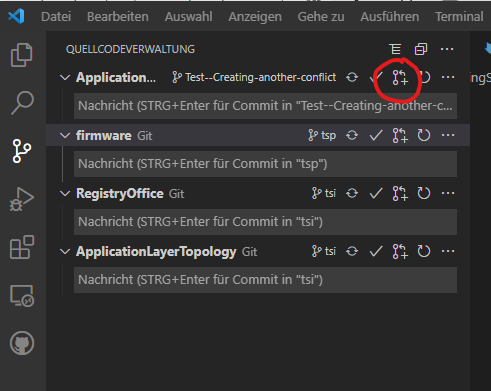
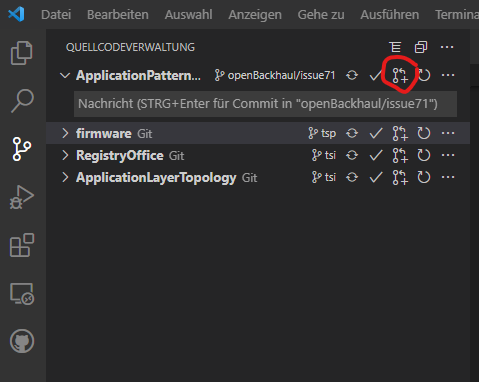
Refactor: Create MergeRequest screen shots

diff --git a/doc/PreparingSpecifying/CreatingMergeRequest/CreatingMergeRequest.md b/doc/PreparingSpecifying/CreatingMergeRequest/CreatingMergeRequest.md
@@ -19,7 +19,7 @@ For this purpose, you have to _merge_ the _origin/develop branch_ into your loca
 * After analyzing two conflicting versions of the code, you could decide for the versions (current, incoming or both) to become part of your local _feature branch_.  
 ![RequestingMerge9](./pictures/RequestingMerge_09.png)
 
-* Save the files, which got changed during resolving all conflicts by Ctrl+s and _stage_ them for being _committed_ during the _merge_ of the _origin/develop branch_ into your local _feature branch_.1  
+* Save the files, which got changed during resolving all conflicts by Ctrl+s and _stage_ them for being _committed_ during the _merge_ of the _origin/develop branch_ into your local _feature branch_.  
 ![RequestingMerge10](./pictures/RequestingMerge_10.png)
 
 * Confirm the _merge_ of the _origin/develop branch_ into your local _feature branch_ ...  
@@ -33,20 +33,37 @@ In the second phase of the process, you have to create the _Merge Request_ for c
 * Click on the pull request icon at the repository you would like to change.  
 ![RequestingMerge13](./pictures/RequestingMerge_13.png)
 
-* VSCode is now automatically filling the source and target branch into a form and you just have to double check. Please, add a _Merge Request_ message, which is complying the chapter about [Formulating Merge Request Messages](../FormulatingCommitMessages/FormulatingCommitMessages.md) and click Create.  
+* VSCode is now automatically filling the source and target branch into a form and you just have to double check.  
+Please, add a _Merge Request_ message, which is complying the chapter about [Formulating Merge Request Messages](../FormulatingCommitMessages/FormulatingCommitMessages.md) and click Create.  
 ![RequestingMerge14](./pictures/RequestingMerge_14.png)
 
-* Alike in the following picture, the _Merge Request_ does not create any conflicts and can directly be _merged_ after reviewing the changes.  
+* Alike in the following picture, the _Merge Request_ does not create any conflicts and can directly be _merged_ after reviewing the changes. As you can see, the _Merge Request_ is not involving your local repository. The _Merge_ is happening exclusively in the remote repository on GitHub. 
 ![RequestingMerge15](./pictures/RequestingMerge_15.png)
 
-As you can see from the pictures, the _Merge Request_ is not involving your local repository.  
-The _Merge_ is happening exclusively in the remote repository on GitHub.  
+* It would make sense, adding at least the originator of the _Issue_, which is underlying the branch that is now requested to be merged, as a Reviewer.  
+![RequestingMerge16](./pictures/RequestingMerge_16.png)
+
+In the third phase of the process, it is recommended to immediately clean up your local repository.  
+Your local _feature branch_ has been copied to the remote repository. So your data is save.  
+After successfully _merging_ into the _origin/develop branch_, the remote _feature branch_ will be deleted, but your local copy is disconnected from further proceeding.  
+For avoiding accumulating useless branches in your local repository, it is recommended to delete the local _feature branch_ right after formulating the _Merge Request_.
+
+* For deleting the obsolete _feature branch_, you have to leave it first.  
+So open the list of branches ...  
+![RequestingMerge17](./pictures/RequestingMerge_17.png)
+
+* ... and chose the _develop branch_ from the list.
+![RequestingMerge18](./pictures/RequestingMerge_18.png)
+
+* Open the menu at the repository, which you would like to clean up, click on "Branch löschen"...  
+![RequestingMerge19](./pictures/RequestingMerge_19.png)
+
+* ... and chose the obsolete _feature branch_ from the list.
+![RequestingMerge20](./pictures/RequestingMerge_20.png)
+
 
 After conducting the _merge_  
 * the _Issue_, which initiated creation of the _feature branch_, will be closed
 * and the remote copy of the _feature branch_ will be deleted.
-
-Please, take care that you are also deleting your local _feature branch_ after you got informed about the successful _merging_.  
-Otherwise your local repository will turn into a dump and you will get confused by mixing _branches_ of similar sounding names.  
 
 [Up to Preparing](../PreparingSpecifying.md)
